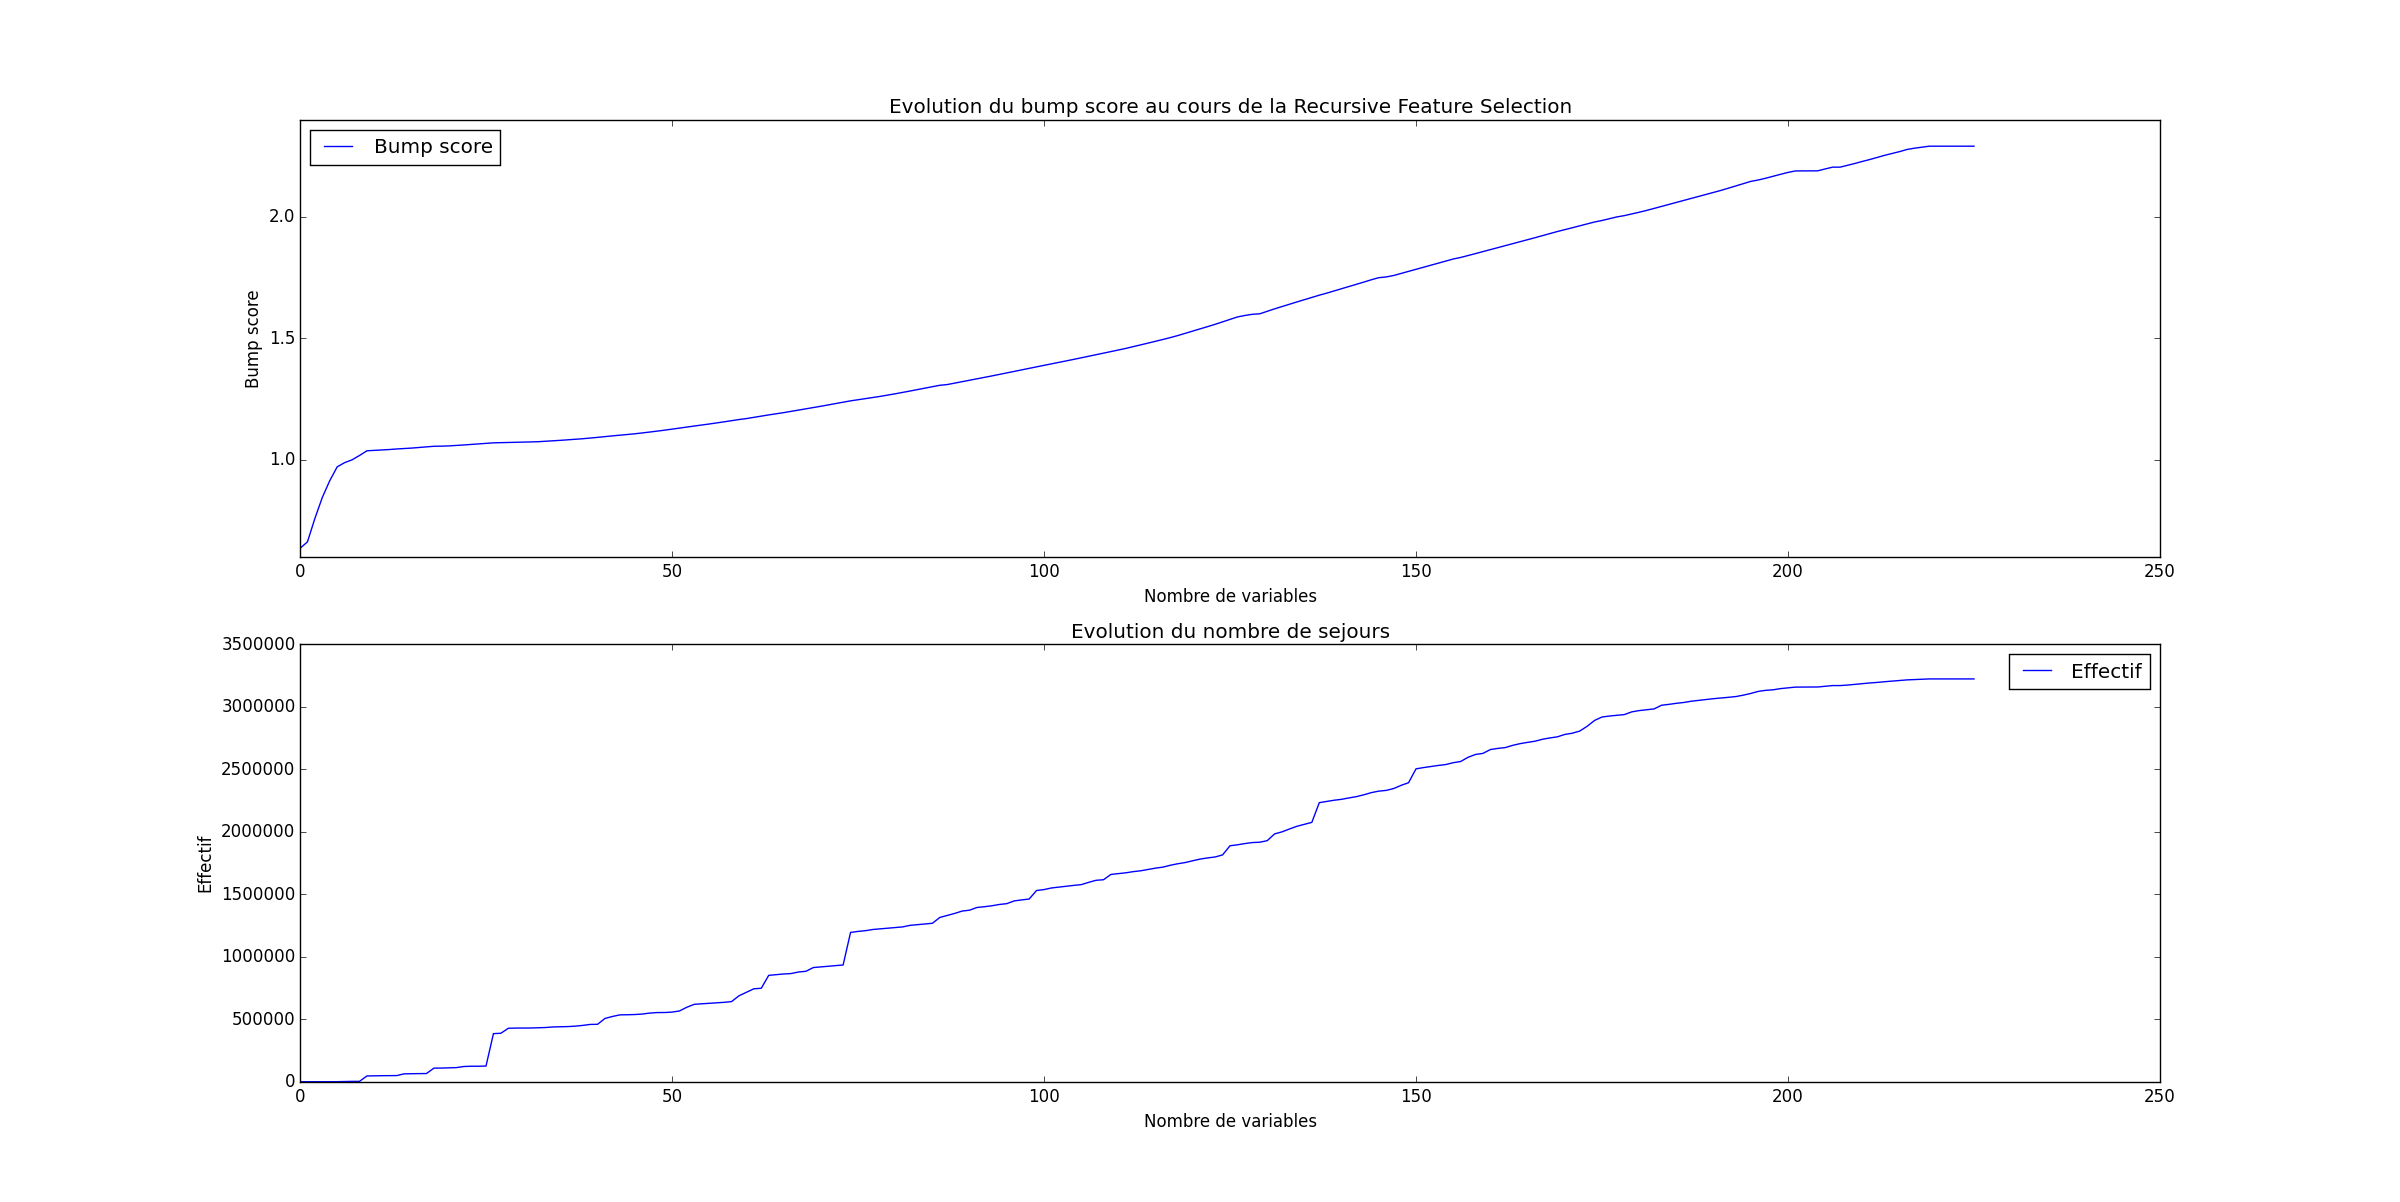
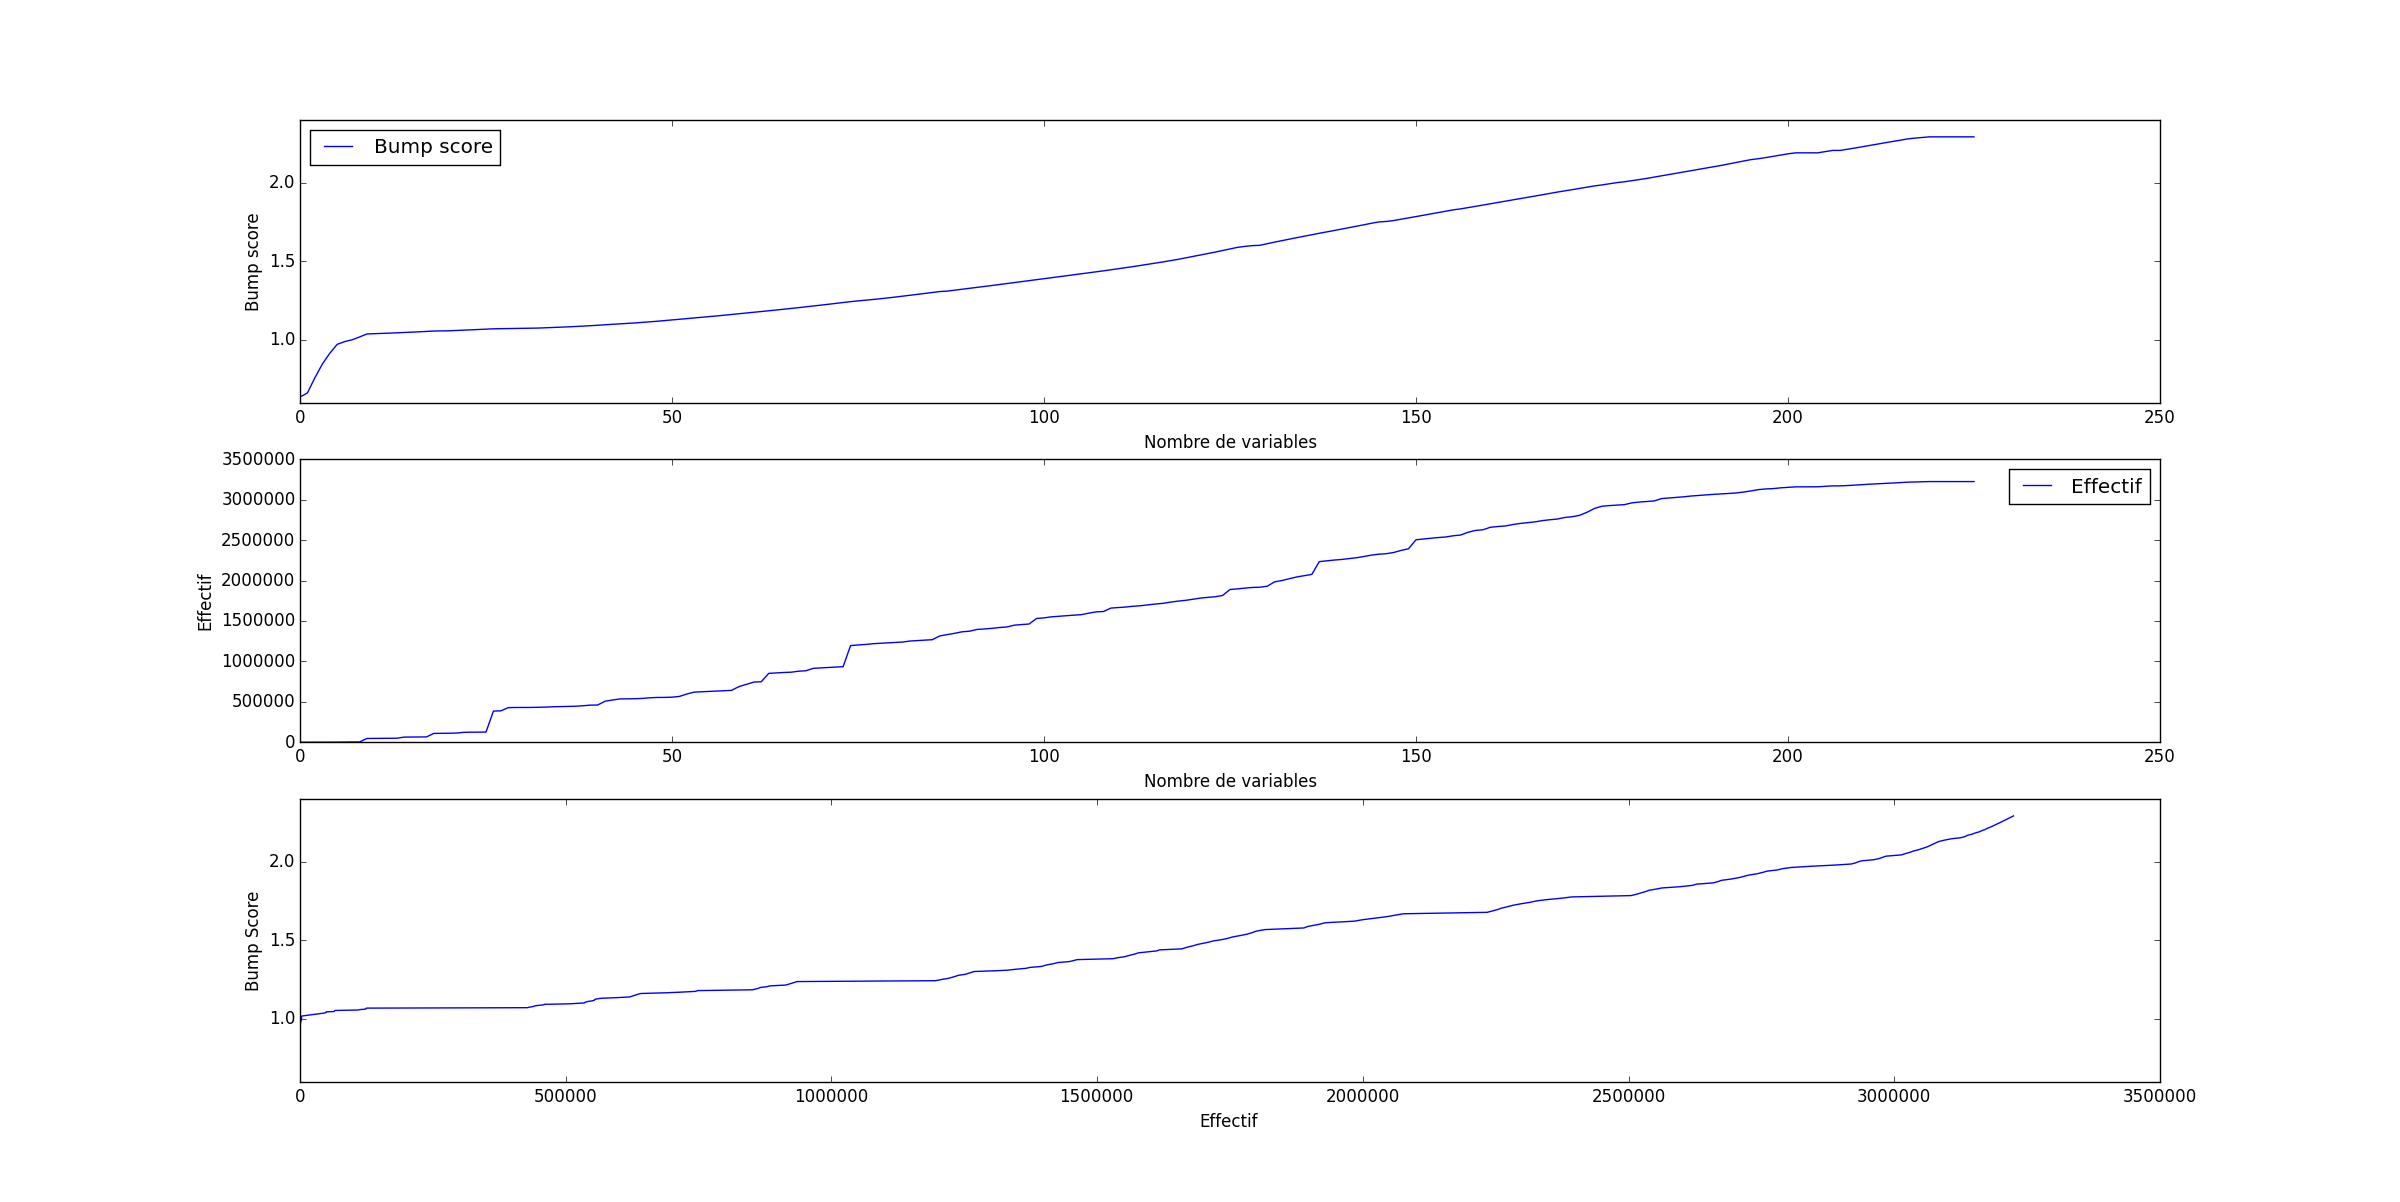
Analye des urgences

diff --git a/projet_ds/src/main.py b/projet_ds/src/main.py
@@ -22,6 +22,7 @@ from sklearn import tree
 import os
 from sklearn.linear_model import LogisticRegression
 from sklearn import metrics
+from sklearn import preprocessing
 from sklearn.feature_selection import chi2, f_classif
 
 imp.reload(file_paths)
@@ -349,6 +350,29 @@ def is_rsa_ok(line, rsa_format):
 
     return (mode_sortie_dc + cmd_90 + cmd_28) == 0
 
+
+
+
+# *************************************************************************************************
+# *************************************************************************************************
+# *************************************************************************************************
+#                   Cas-Control methods
+# *************************************************************************************************
+# *************************************************************************************************
+# *************************************************************************************************
+
+
+
+
+
+
+# *************************************************************************************************
+# *************************************************************************************************
+# *************************************************************************************************
+#                   work area
+# *************************************************************************************************
+# *************************************************************************************************
+# *************************************************************************************************
 
 def get_rsa_data(rsa, rsa_format, verbose=None):
     """
@@ -1566,19 +1590,28 @@ def plot_rfs_df(df):
 
     """
     plt.figure(1)
-    plt.subplot(211)
+    plt.subplot(311)
     plt.plot(df['bump_score'], label='Bump score')
-    plt.title('Evolution du bump score au cours de la Recursive Feature Selection')
+#    plt.title('Evolution du bump score au cours de la Recursive Feature Selection')
     plt.xlabel('Nombre de variables')
     plt.ylabel('Bump score')
     plt.legend(loc="best")
 
-    plt.subplot(212)
+    plt.subplot(312)
     plt.plot(df['count'], label='Effectif')
-    plt.title('Evolution du nombre de sejours')
+#    plt.title('Evolution du nombre de sejours')
     plt.xlabel('Nombre de variables')
     plt.ylabel('Effectif')
     plt.legend(loc="best")
+    
+    plt.subplot(313)
+    plt.plot(df['count'], df['bump_score'])
+#    plt.title('Evolution du score en fonction du nombre de sejours')
+    plt.xlabel('Effectif')
+    plt.ylabel('Bump Score')
+    
+    plt.legend(loc="best")
+    
     plt.show()   
 
 
@@ -1651,21 +1684,123 @@ def calcul_bump_score(X_param, y_param, feature_to_test, n=3, lim=70):
         response = float(target_to_neighborhood)/all_weights
     return response, all_weights # Moyenne ponderee generale, Nombre total des cas
 
-
-
-# #########################################
-# Iitialisation des variables globales
-
-
-
-
 def convert_to_is_multipe_of_7(y):
     return np.ravel( [(lambda x:1*(x>0)*((x%7)==0))(x) for x in y])
 
 
-init_globals()
+
+# #############################################################################
+# #############################################################################
+# #############################################################################
+#                         CASE CONTROL METHODS
+# #############################################################################
+# #############################################################################
+# #############################################################################
+
+def detect_and_save_rehosps_urg_30_dict(delai_rehosp=30, ano_file_path=ano_clean_file_path_2013, ano_format=ano_2013_format, rsa_file_path=rsa_clean_file_path_2013, rsa_format=rsa_2013_format, rehosps_file_path=rehosps_urg_30_delay_dict_file_path):
+    """
+    Detecte les sejours ayant donne lieu a une r-hospitalisation en urgences dans un délai de delai_rehosp jours max (après la fin) 
+    parmi les sejours et enregistre un dict {line_number:delay}.
+    Seuls les delais >0 et <= delai_rehosp sont detectes
     
-#  Test area
+    Parameters
+    ----------
+    delai_rehosps : delais maximum entre deux sejours consecutifs pour le meme patient 
+        default = 30 j
+    ano_file_path : le fichier ANO
+        defaut = ano_clean_file_path_2013
+    rsa_file_path : le fichier des RSA
+        defult = rsa_clean_file_path_2013
+    ano_format : le format des ANO
+        defult = ano_2013_format
+    rsa_format : le format des RSA
+        default = rsa_2013_format
+    rehosps_file_path : le fichier ou le dict des rehospitalisations sera enregistree
+        default = rehosps_urg_30_delay_dict_file_path
+    
+    Retruns
+    -------
+    line__delay_dict : un dict {numero de ligne dans le fichier RSA:delai}
+        Ce dict est egalement enregistree sous rehosps_file_path
+    """
+    result_dict = {}
+    line_number = 1
+    rehosps_delay_dict = {}
+    with open(ano_file_path) as ano_file:
+        with open(rsa_file_path) as rsa_file:
+            while True:
+                ano_line = ano_file.readline()
+                rsa_line = rsa_file.readline()
+                if (len(ano_line.strip())>0):
+                    ano_hash = ano_line[ano_format['ano_sp'] - 1:ano_format['ano_ep']]
+                    sej_num = int(ano_line[ano_format['sej_num_sp'] - 1:ano_format['sej_num_ep']])
+                    error, rsa_data = get_rsa_data(rsa_line, rsa_format)
+                    stay_length = rsa_data['stay_length'] 
+                    urgence = rsa_data['emergency']
+                    if (ano_hash not in result_dict):
+                        result_dict[ano_hash]=list()
+                    result_dict[ano_hash].append({'sej_num':sej_num, 'stay_length':stay_length, 'urgence':urgence, 'line_number':line_number})
+                if not ano_line:
+                    break
+                if line_number % 100000 == 0:
+                        print '\rGetting sej_num, processed ', line_number, 
+                line_number += 1
+    print 'Results dict length ' + str(len(result_dict))
+    print 'Starting rehosps detection ...'
+    line_number = 1
+    error_number = 0
+    for ano_hash_key in result_dict.keys():
+        element_list = result_dict[ano_hash_key]
+        if (len(element_list)>1):
+            element_list.sort(key=lambda x:x['sej_num'])
+            first_stay = True
+            last_sej_num = 0
+            last_stay_length = 0
+            last_line_number = 0
+            current_sej_num = 0
+            for element in element_list:
+                if (first_stay):
+                    last_sej_num = element['sej_num']
+                    last_stay_length = element['stay_length']
+                    last_line_number = element['line_number']
+                    first_stay = False
+                    continue
+                else:
+                    current_sej_num = element['sej_num']
+                    urgence = element['urgence']
+                    delay_start_to_start = current_sej_num - last_sej_num
+                    delay_end_to_start = current_sej_num - (last_sej_num + last_stay_length)
+                    if (delay_start_to_start<0):
+                        error_number += 1
+                        break
+                    if delay_start_to_start>0 and delay_end_to_start>0 and (delay_start_to_start <= delai_rehosp or delay_end_to_start <= delai_rehosp):
+                        rehosps_delay_dict[last_line_number] = [delay_start_to_start, delay_end_to_start, urgence]
+                    last_sej_num = current_sej_num
+                    last_stay_length = element['stay_length']
+                    last_line_number = element['line_number']
+        if line_number % 100000 == 0:
+                print '\rRehosp detection : processed ', line_number, 'Errors : ', error_number,
+        line_number += 1
+    with open(rehosps_file_path, 'w') as out_file:
+        pickle.dump(rehosps_delay_dict, out_file)
+    print 'Rehosps saved to ' + rehosps_file_path
+    print 'Errors ', error_number
+    return rehosps_delay_dict
+
+
+    
+# #############################################################################
+# #############################################################################
+# #############################################################################
+#                         WORK AREA
+# #############################################################################
+# #############################################################################
+# #############################################################################
+
+# #########################################
+# Iitialisation des variables globales
+
+init_globals()
     
 if False:
     # Creation et sauvegarde des referentiels
@@ -1795,6 +1930,9 @@ if False:
     rfs_df = pd.read_pickle(recusrive_bump_scores_df_file_path)
     plot_rfs_df(rfs_df)
     print_full_dataframe(rfs_df)
+    np.correlate(rfs_df['bump_score'], rfs_df['count'])
+    plt.plot(preprocessing.normalize(rfs_df['bump_score']).ravel(), preprocessing.normalize(rfs_df['count']).ravel())
+    r2 = metrics.r2_score(preprocessing.normalize(rfs_df['bump_score']).ravel(), preprocessing.normalize(rfs_df['count']).ravel())
 
     # Learning by tree algorithm
     dtc = learn_tree(X, y_sts_dummy_7, min_depth = 1, max_depth = 10)
@@ -1872,4 +2010,16 @@ if False:
     pca_0.components_ 
     pca_1.explained_variance_ratio_
     pca_0.explained_variance_ratio_ 
+    
+    
+    
+    # #########################################################################
+    #                              urg_30 study 
+    
+    # Calcul du nombre des sejours donnant lieu a une readmission en urgences dans un delais de 60 jours ou moins
+    y_next_emergency = y_ets[(X[:,short_column_label_dict['next_emergency']]==1).todense()]
+    y_next_emergency_30 = y_next_emergency[y_next_emergency<=30]
+    np.max(y_next_emergency_30)
+    np.min(y_next_emergency_30)
+    len(y_next_emergency_30)
     

diff --git a/projet_ds/src/file_paths.py b/projet_ds/src/file_paths.py
@@ -20,6 +20,10 @@ rehosps_180_delay_dict_file_path = data_directory + 'rehosps_180_delay_dict.txt'
 age_satay_length_file_path = data_directory + 'age_stay_length.txt'
 
 
+rehosps_urg_30_delay_dict_file_path = data_directory + 'rehosps_urg_30_delay_dict.txt'
+
+
+
 codes_ghm_file_path = refs_directory + 'codes_ghm.txt'
 codes_cim_file_path = refs_directory + 'codes_cim10.txt'
 codes_ccam_file_path = refs_directory + 'codes_ccam.txt'
